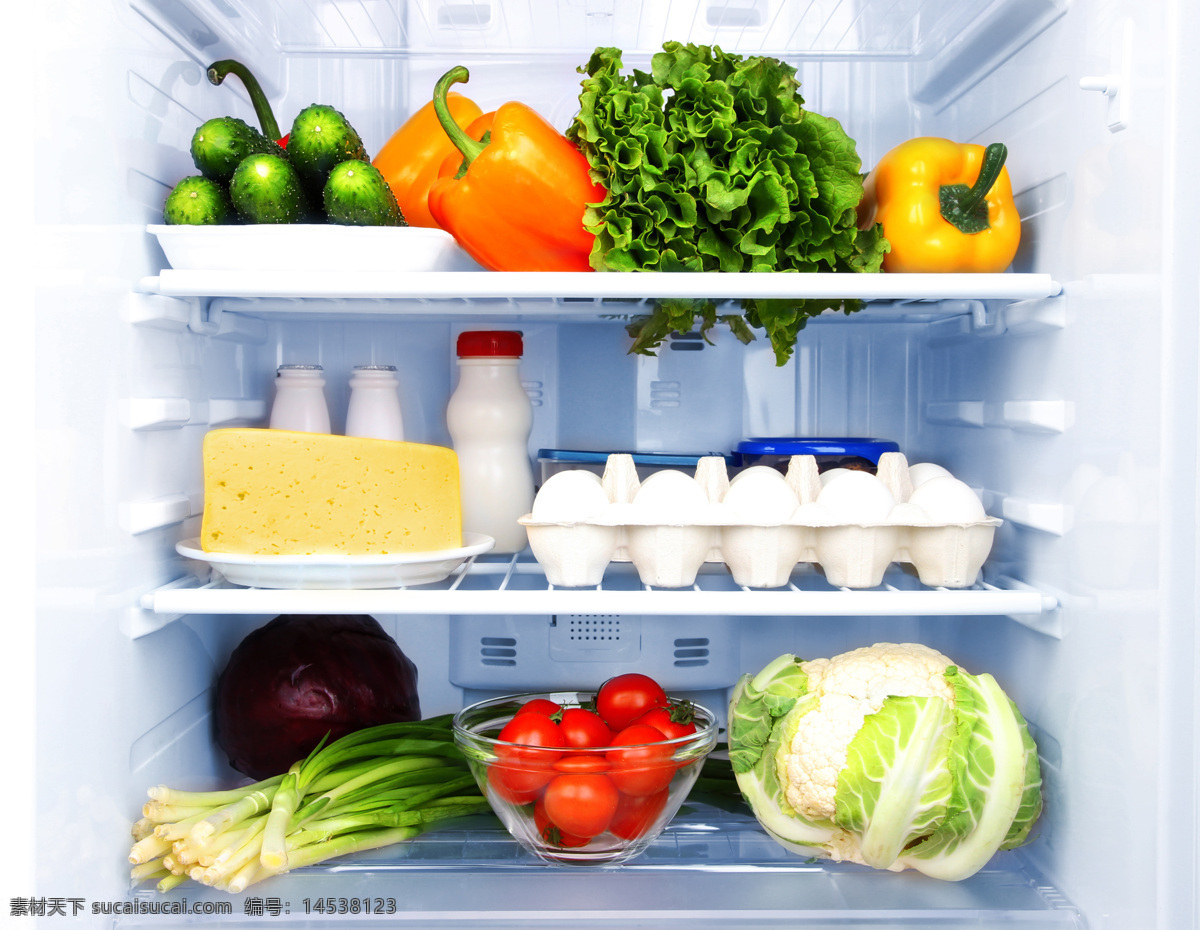
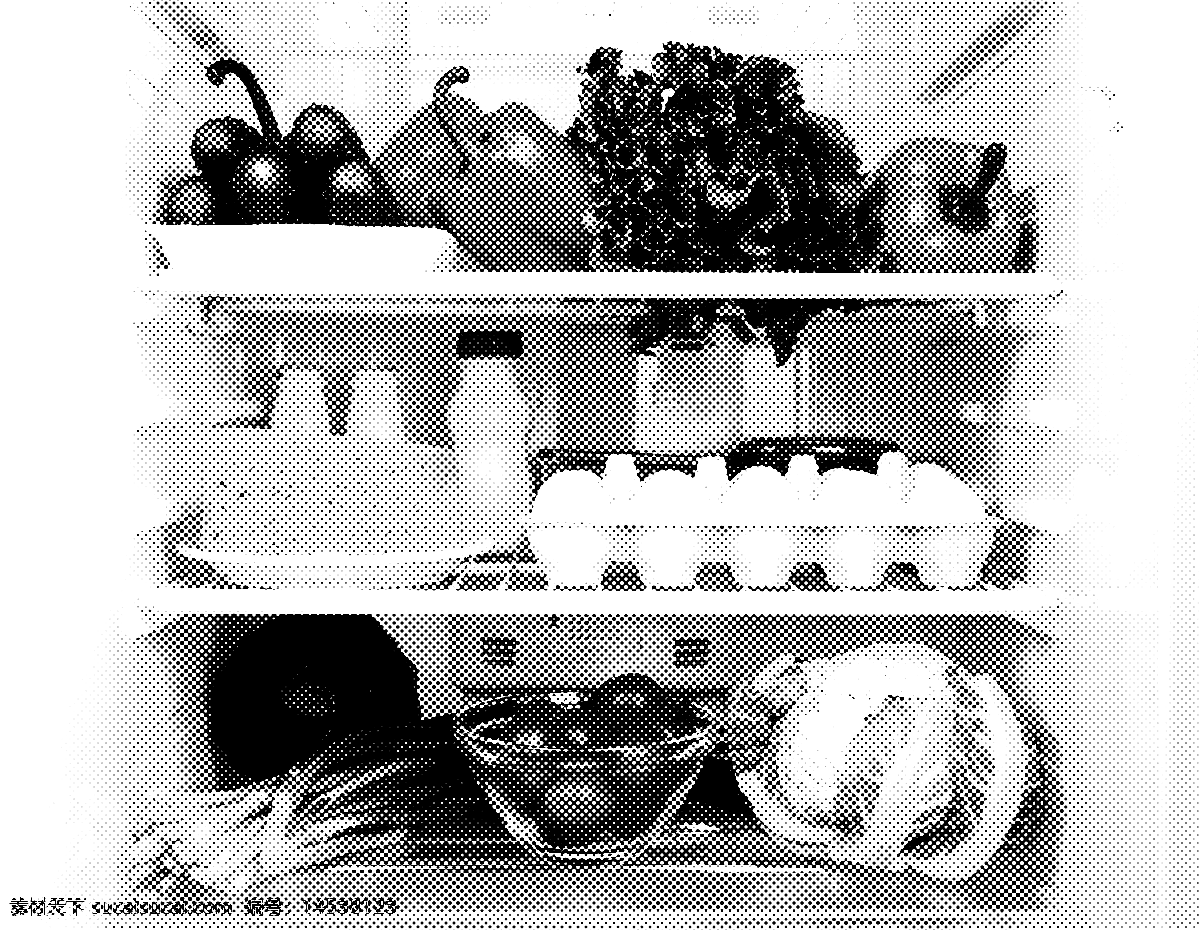
More straightforward designs

diff --git a/web-app/templates/dashboard.html b/web-app/templates/dashboard.html
@@ -12,7 +12,7 @@
             <h1 class="display-word">STOCK</h1>
         </div>
 
-        <div class="band band-body band-metrics">
+        <!-- <div class="band band-body band-metrics">
             <div class="metric-row">
                 <span>Visible items</span>
                 <span>{{ total_items }}</span>
@@ -25,7 +25,7 @@
                 <span>Delete mode</span>
                 <span>Soft remove</span>
             </div>
-        </div>
+        </div> -->
 
         <a class="text-link" href="{{ url_for('main.home') }}">Back to Upload Page</a>
     </div>